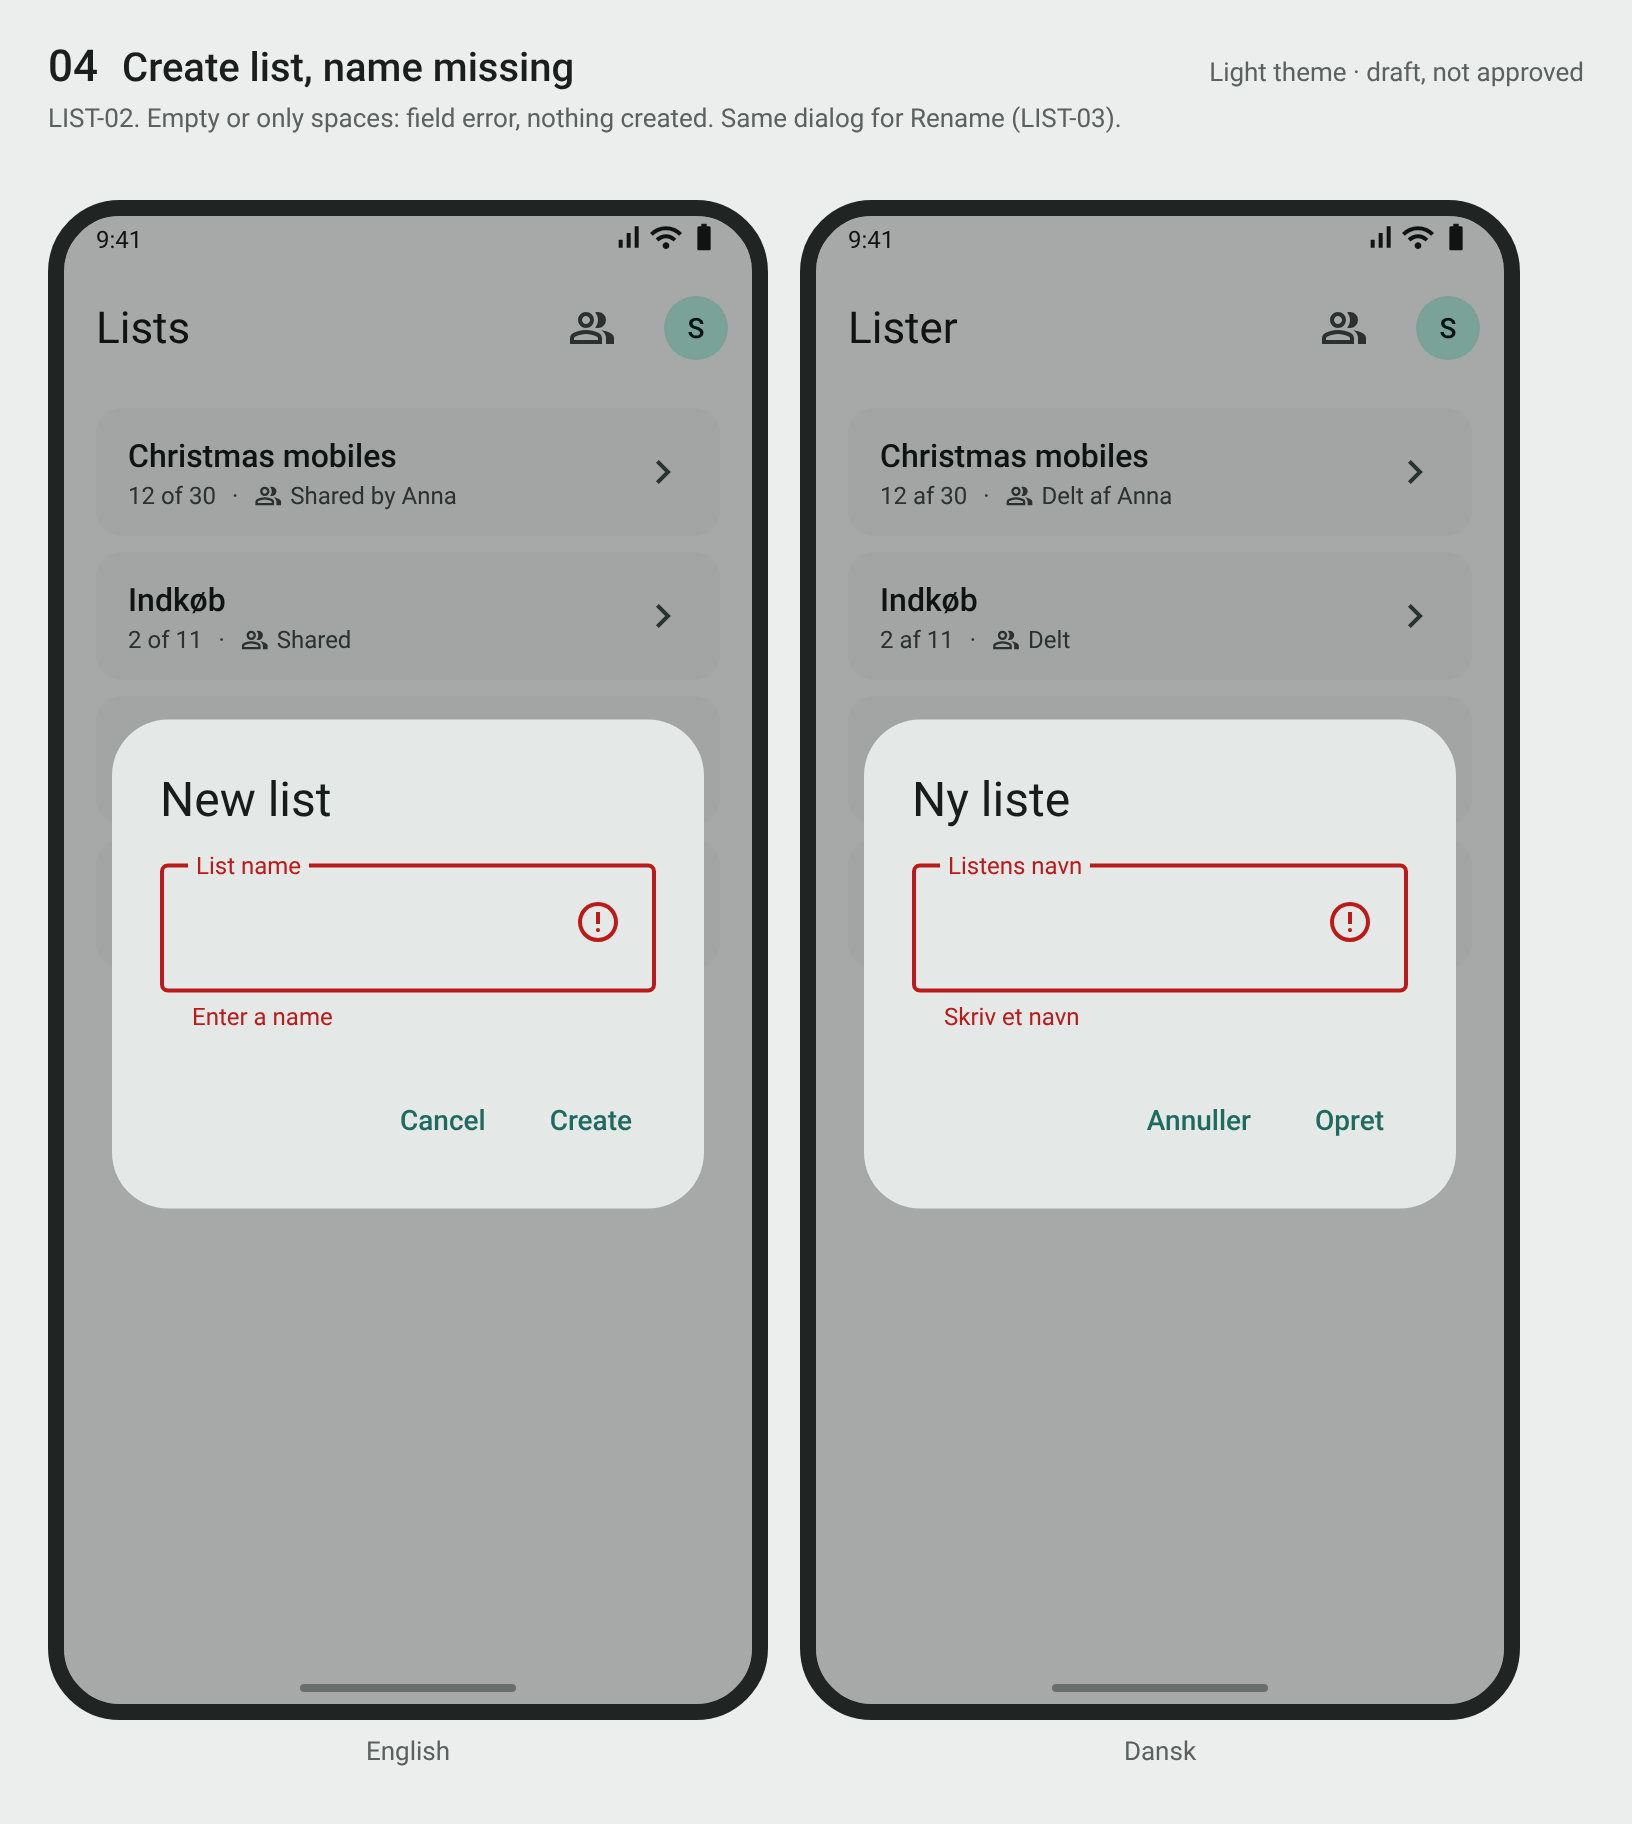
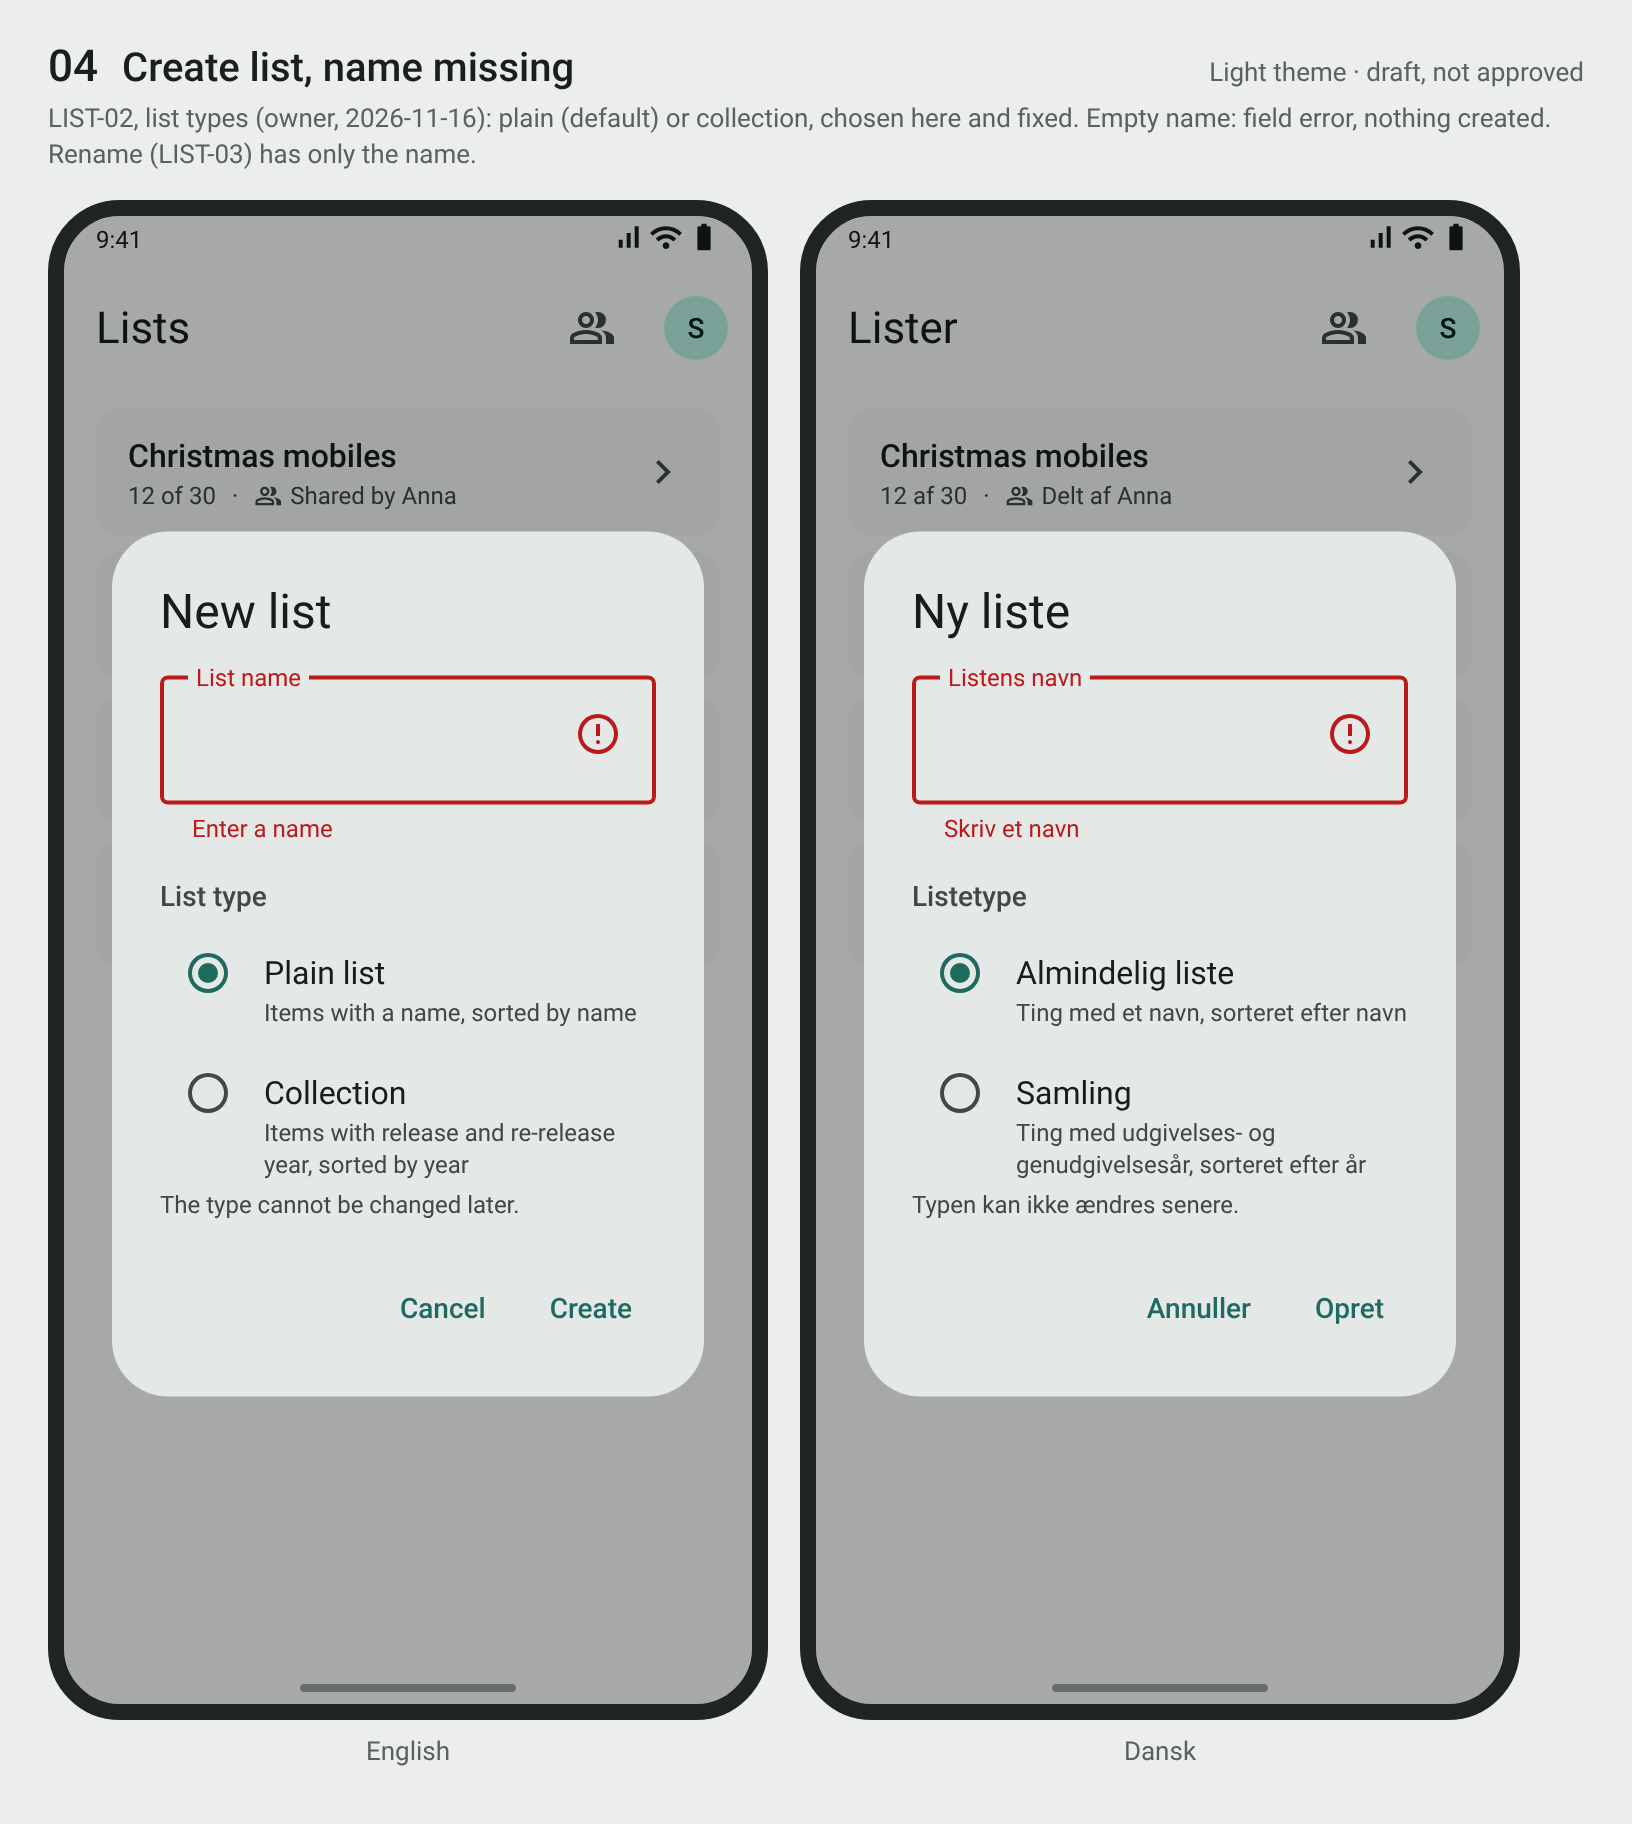
M0.5-03: wireframes follow the list-type and login decisions (plain and collection lists, email sign-in entry)
Claude-Session: https://claude.ai/code/session_013srDQgv5DC1PVGJBbQCCoc

diff --git a/docs/product/wireframes/wireframes.html b/docs/product/wireframes/wireframes.html
@@ -224,6 +224,9 @@ const S = {
     noListsBody: 'Make a list of what you collect or need, and tick off what you have. A new list is private until you share it.',
     of: (a, b) => `${a} of ${b}`, private: 'Private', shared: 'Shared', sharedBy: n => `Shared by ${n}`,
     noItems: 'No items yet',
+    listType: 'List type', plainList: 'Plain list', plainNote: 'Items with a name, sorted by name', collection: 'Collection',
+    collectionNote: 'Items with release and re-release year, sorted by year', typeFixed: 'The type cannot be changed later.',
+    signInEmail: 'Sign in with email', createAccount: 'Create account',
     newList: 'New list', listName: 'List name', enterName: 'Enter a name', cancel: 'Cancel', create: 'Create',
     showMissing: 'Show only missing', addItem: 'Add item', reRelease: 'Re-release', reReleased: 'Re-release',
     offline: 'Offline: changes are sent when you are online again', pending: n => n === 1 ? '1 waiting' : `${n} waiting`,
@@ -268,6 +271,9 @@ const S = {
     noListsBody: 'Lav en liste over det, du samler på eller mangler, og sæt flueben ved det, du har. En ny liste er privat, indtil du deler den.',
     of: (a, b) => `${a} af ${b}`, private: 'Privat', shared: 'Delt', sharedBy: n => `Delt af ${n}`,
     noItems: 'Ingen ting endnu',
+    listType: 'Listetype', plainList: 'Almindelig liste', plainNote: 'Ting med et navn, sorteret efter navn', collection: 'Samling',
+    collectionNote: 'Ting med udgivelses- og genudgivelsesår, sorteret efter år', typeFixed: 'Typen kan ikke ændres senere.',
+    signInEmail: 'Log ind med e-mail', createAccount: 'Opret konto',
     newList: 'Ny liste', listName: 'Listens navn', enterName: 'Skriv et navn', cancel: 'Annuller', create: 'Opret',
     showMissing: 'Vis kun manglende', addItem: 'Tilføj ting', reRelease: 'Genudgivet', reReleased: 'Genudgivet',
     offline: 'Offline: ændringer sendes, når du er online igen', pending: n => `${n} venter`,
@@ -322,6 +328,12 @@ const ITEMS = [
   { n: 'Dove', y: 1991, c: true }, { n: 'Candle', y: 1992 }, { n: 'Sleigh', r: 2018 },
 ];
 
+// A plain list (owner decision 2026-11-16): name and the check only, sorted by name.
+const PLAIN = [
+  { n: 'Bananer' }, { n: 'Brød', c: true }, { n: 'Havregryn' }, { n: 'Kaffe' }, { n: 'Mælk', c: true }, { n: 'Ost' },
+  { n: 'Rugbrød' }, { n: 'Smør' }, { n: 'Æg' },
+];
+
 /* ---------- Building blocks ---------- */
 const ic = (n, cls = '') => `<span class="ms ${cls}">${n}</span>`;
 const iconBtn = (n, cls = '') => `<span class="icon">${ic(n, cls)}</span>`;
@@ -353,46 +365,48 @@ const logo = () => `<div class="logo"><svg width="44" height="40" viewBox="0 0 4
   <g stroke="var(--onPrimary)" stroke-width="4" stroke-linecap="round"><path d="M8 6v28M16 6v28M24 6v28M32 6v28"/><path d="M3 30L39 10"/></g></svg></div>`;
 
 const listHead = (s, l, filterOn) => `<div class="head"><div class="meta t-bodyMedium var"><span>${s.of(l.have, l.total)}</span><span>·</span><span class="meta" style="gap:4px">${
-  ic('group').replace('class="ms ', 'style="font-size:16px" class="ms ')}${s.sharedBy(l.by)}</span></div>
+  ic('group').replace('class="ms ', 'style="font-size:16px" class="ms ')}${l.by ? s.sharedBy(l.by) : s.shared}</span></div>
   <div class="chipwrap"><span class="chip t-labelLarge ${filterOn ? 'on' : ''}">${filterOn ? ic('check') : ''}${s.showMissing}</span></div></div>`;
-const openList = (s, { items = ITEMS, filterOn = false, extraTop = '', overlay = '', fabOn = true } = {}) => {
-  const l = LISTS[0];
+const openList = (s, { items = ITEMS, filterOn = false, extraTop = '', overlay = '', fabOn = true, l = LISTS[0] } = {}) => {
   return `${topbar(l.name, { back: true, actions: iconBtn('more_vert') })}${extraTop}${listHead(s, l, filterOn)}
   <div class="scroll">${items.map(it => itemRow(s, it)).join('')}<div class="fade"></div>${fabOn ? fab(s.addItem) : ''}</div>${overlay}`;
 };
-const sheetItem = (s, { title, name, y, r, yErr = false, rErr = false, focus = '', kbd = false, edit = false }) => `<div class="scrim"></div><div class="sheet">
+const sheetItem = (s, { title, name, y, r, yErr = false, rErr = false, focus = '', kbd = false, edit = false, plain = false }) => `<div class="scrim"></div><div class="sheet">
   <div class="handle"></div><div class="t-titleLarge" style="margin-bottom:var(--sp-m)">${title}</div>
   ${field({ label: s.name, value: name, state: focus === 'n' ? 'focus' : '', caret: focus === 'n' })}
-  <div class="two" style="margin-top:var(--sp-s)">
+  ${plain ? '' : `<div class="two" style="margin-top:var(--sp-s)">
     <div>${field({ label: s.releaseYear, value: y, state: yErr ? 'err' : focus === 'y' ? 'focus' : '', caret: focus === 'y', trail: yErr ? 'error' : '' })}${support(yErr ? s.yearRange : s.optional, yErr)}</div>
     <div>${field({ label: s.reReleaseYear, value: r, state: rErr ? 'err' : focus === 'r' ? 'focus' : '', caret: focus === 'r', trail: rErr ? 'error' : '' })}${support(rErr ? s.yearRange : s.optional, rErr)}</div>
-  </div>
+  </div>`}
   <div class="acts t-labelLarge">${edit ? `<span class="btn text danger" style="margin-right:auto">${ic('delete')}${s.remove}</span><span class="btn text">${s.cancel}</span><span class="btn filled">${s.save}</span>`
     : `<span class="btn text">${s.done}</span><span class="btn filled">${s.add}</span>`}</div>
   ${kbd ? `<div class="kbd">${['1', '2', '3', '4', '5', '6', '7', '8', '9', '', '0', ic('backspace')].map(k => `<span>${k}</span>`).join('')}</div>` : ''}
 </div>`;
 
+const radio = (on, label, note) => `<div class="row" style="padding:var(--sp-xs) 0;gap:var(--sp-xs);align-items:flex-start"><span class="icon" style="color:var(--${on ? 'primary' : 'onSurfaceVariant'})">${ic(on ? 'radio_button_checked' : 'radio_button_unchecked', on ? 'fill' : '')}</span><div class="txt" style="padding-top:var(--sp-m)"><div class="t-bodyLarge">${label}</div><div class="t-bodySmall var">${note}</div></div></div>`;
+const typeChoice = s => `<div class="t-labelLarge var" style="margin-top:var(--sp-l)">${s.listType}</div>${radio(true, s.plainList, s.plainNote)}${radio(false, s.collection, s.collectionNote)}<div class="t-bodySmall var">${s.typeFixed}</div>`;
+
 /* ---------- Screens: id, title, story and decision refs, content(strings) ---------- */
 const SCREENS = [
-  { id: '01', t: 'Sign-in', refs: 'AUTH-01, AUTH-02, SYNC-03, OQ-22. Shown only when signed out. No connection: snackbar, nothing else happens. Cancelling the account picker shows nothing.',
+  { id: '01', t: 'Sign-in', refs: 'AUTH-01, AUTH-02, SYNC-03, OQ-22, OQ-23. Google stays the main button; email and password (decided 2026-11-16) get their own screens once the stories PR lands. Shown only when signed out. No connection: snackbar, nothing else happens. Cancelling the account picker shows nothing.',
     f: s => `<div class="center">${logo()}<div class="t-headlineSmall" style="margin-top:var(--sp-l)">Tally</div>
       <div class="t-bodyLarge var">${s.appTag}</div>
-      <div class="stack"><span class="btn filled wide t-labelLarge">${ic('login')}${s.signIn}</span></div>
+      <div class="stack"><span class="btn filled wide t-labelLarge">${ic('login')}${s.signIn}</span><span class="btn outlined wide t-labelLarge">${ic('mail')}${s.signInEmail}</span><span class="btn text wide t-labelLarge">${s.createAccount}</span></div>
       <div class="t-bodySmall var" style="margin-top:var(--sp-s)">${s.signInNote}</div></div>${snack(s.needsConnection)}` },
   { id: '02', t: 'Lists, empty', refs: 'LIST-01, VIS-01, OQ-1. First start of a new account.',
     f: s => `${listsBar(s)}<div class="center"><div class="bubble">${ic('checklist')}</div><div class="t-titleLarge">${s.noListsTitle}</div>
       <div class="t-bodyMedium var">${s.noListsBody}</div></div>${fab(s.createList)}` },
   { id: '03', t: 'Lists', refs: 'LIST-01, VIS-03, OQ-8 (most recently used first), OQ-9 (progress under the name). Private or shared, and who shared it, on every row.',
     f: s => `${listsBar(s)}<div class="scroll" style="padding-top:var(--sp-s)">${LISTS.map(l => listRow(s, l)).join('')}${fab(s.createList)}</div>` },
-  { id: '04', t: 'Create list, name missing', refs: 'LIST-02. Empty or only spaces: field error, nothing created. Same dialog for Rename (LIST-03).',
+  { id: '04', t: 'Create list, name missing', refs: 'LIST-02, list types (owner, 2026-11-16): plain (default) or collection, chosen here and fixed. Empty name: field error, nothing created. Rename (LIST-03) has only the name.',
     f: s => `${listsBar(s)}<div class="scroll" style="padding-top:var(--sp-s)">${LISTS.map(l => listRow(s, l)).join('')}</div>${dialog({
-      title: s.newList, extra: `<div style="margin-top:var(--sp-s)">${field({ label: s.listName, state: 'err', trail: 'error' })}${support(s.enterName, true)}</div>`,
+      title: s.newList, extra: `<div style="margin-top:var(--sp-s)">${field({ label: s.listName, state: 'err', trail: 'error' })}${support(s.enterName, true)}</div>${typeChoice(s)}`,
       acts: `<span class="btn text">${s.cancel}</span><span class="btn text">${s.create}</span>` })}` },
-  { id: '05', t: 'Open list', refs: 'ITEM-04, ITEM-05, VIS-03, OQ-8 (release year, then name), OQ-9 ("12 of 30" at the top). Tap the box: I have it. Tap the row: edit.',
+  { id: '05', t: 'Open list, collection', refs: 'Collection list. ITEM-04, ITEM-05, VIS-03, OQ-8 (release year, then name), OQ-9 ("12 of 30" at the top). Tap the box: I have it. Tap the row: edit.',
     f: s => openList(s) },
   { id: '06', t: 'Show only missing, offline', refs: 'OQ-8 filter, OQ-14 offline bar with waiting changes, SYNC-01. Ticking works offline; the bar goes away when everything is sent.',
     f: s => openList(s, { items: ITEMS.filter(i => !i.c), filterOn: true, extraTop: offline(s, 3) }) },
-  { id: '07', t: 'Add item, year out of range', refs: 'ITEM-01, OQ-6, OQ-19. Both years optional, any order, 1900 to this year + 50. The sheet stays open for the next item.',
+  { id: '07', t: 'Add item, collection, year out of range', refs: 'ITEM-01, OQ-6, OQ-19. Both years optional, any order, 1900 to this year + 50. The sheet stays open for the next item.',
     f: s => openList(s, { fabOn: false, overlay: sheetItem(s, { title: s.addItem, name: 'Candle', y: '1992', r: '1890', rErr: true, focus: 'r', kbd: true }) }) },
   { id: '08', t: 'Edit item', refs: 'ITEM-02, ITEM-03. Clearing a year removes it; clearing the name keeps the old one with an error. Remove is here.',
     f: s => openList(s, { fabOn: false, overlay: sheetItem(s, { title: s.editItem, name: 'Star', y: '1985', r: '2015', edit: true }) }) },
@@ -458,6 +472,10 @@ const SCREENS = [
     f: s => `<div class="browser t-bodyMedium"><span class="url">${ic('lock').replace('class="ms ', 'style="font-size:16px" class="ms ')}&lt;host not decided&gt;/join/…</span>${iconBtn('more_vert')}</div>
       <div class="center">${logo()}<div class="t-headlineSmall" style="margin-top:var(--sp-s)">${s.webTitle}</div><div class="t-bodyLarge var">${s.webBody}</div>
       <div class="stack"><span class="btn filled wide t-labelLarge">${ic('shop')}${s.webPlay}</span></div><div class="t-bodySmall var">${s.webSmall}</div></div>` },
+  { id: '22', t: 'Plain list', refs: 'List types (owner, 2026-11-16): a plain list has name and the check only, sorted by name; same progress, filter and offline bar as a collection.',
+    f: s => openList(s, { l: LISTS[1], items: PLAIN }) },
+  { id: '23', t: 'Add item, plain list', refs: 'ITEM-01 for a plain list: the name only; the sheet stays open for the next item. Edit (08) is the same without years.',
+    f: s => openList(s, { l: LISTS[1], items: PLAIN, fabOn: false, overlay: sheetItem(s, { title: s.addItem, name: 'Kaffeb', focus: 'n', plain: true }) }) },
 ];
 
 /* ---------- Token plumbing ---------- */
